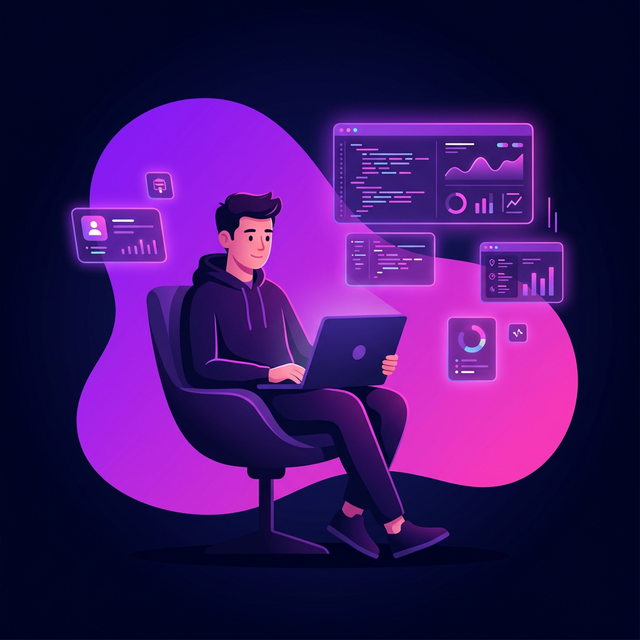
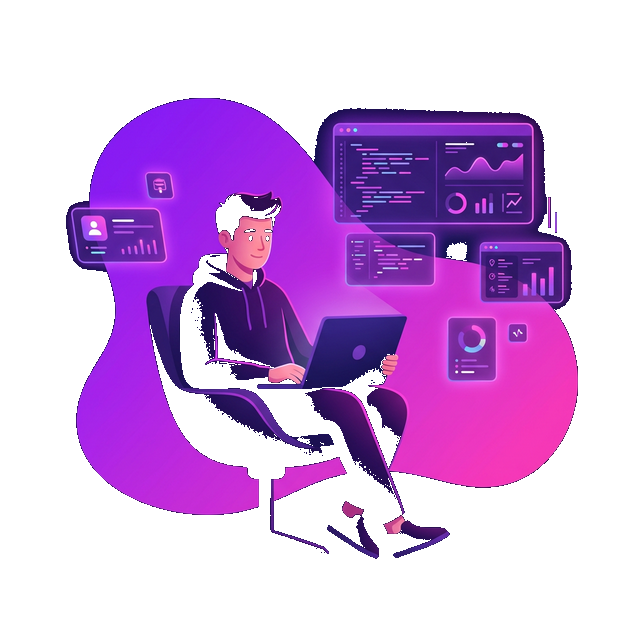
updated image

diff --git a/src/shared/styles/index.css b/src/shared/styles/index.css
@@ -415,8 +415,6 @@
     mix-blend-mode: screen;
     -webkit-mask-image: radial-gradient(ellipse 85% 80% at 50% 50%, black 55%, transparent 100%);
     mask-image: radial-gradient(ellipse 85% 80% at 50% 50%, black 55%, transparent 100%);
-    filter: drop-shadow(0 0 40px rgba(176, 110, 255, 0.25))
-           drop-shadow(0 0 80px rgba(236, 72, 153, 0.15));
   }
 
   .hero-glass-shell {
